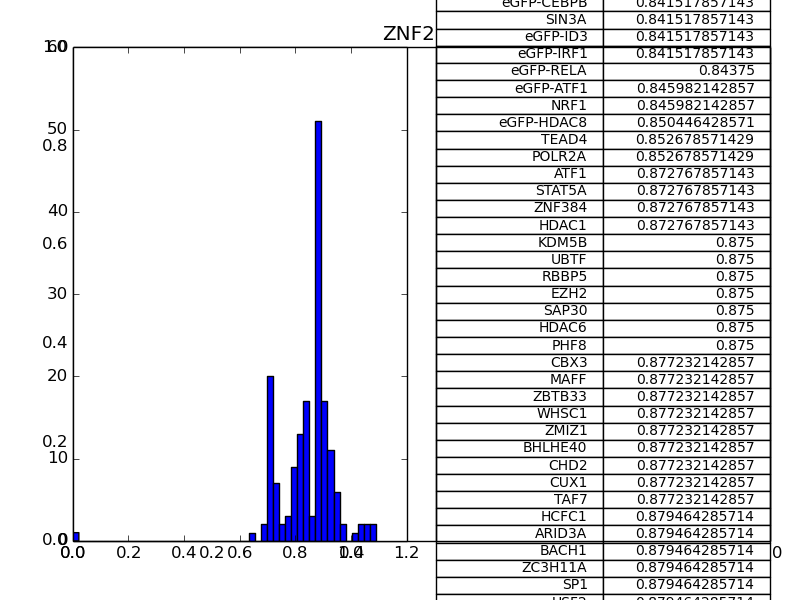
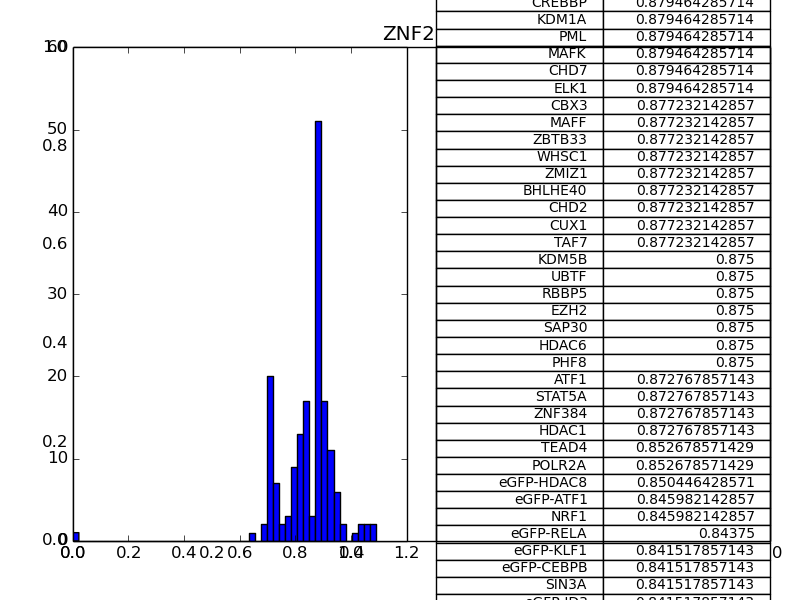
updates

Changed region(s): [[0.625, 0.0, 0.75, 1.0], [0.7812, 0.6, 0.9375, 1.0], [0.7812, 0.0, 0.9375, 0.42]]

diff --git a/src/analyze_SVM.py b/src/analyze_SVM.py
@@ -46,6 +46,6 @@ def run(files,figures):
         ax2.xaxis.set_visible(False)
         ax2.yaxis.set_visible(False)
         colLabels=("TF","S-Score")
-        the_table = ax2.table(cellText=TFs, colLabels=colLabels,loc='center',fontsize=12)
+        the_table = ax2.table(cellText=TFs, colLabels=colLabels,loc='center',fontsize=8)
         plt.savefig(figures + file1.split('.')[0] + '.png')
         plt.close()
